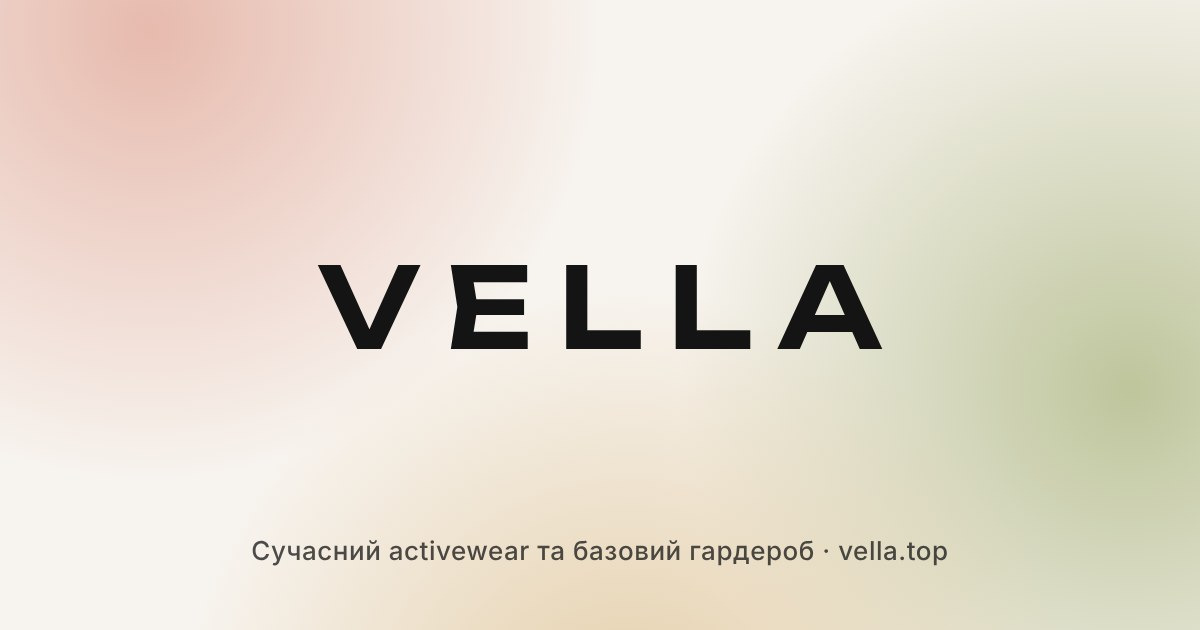
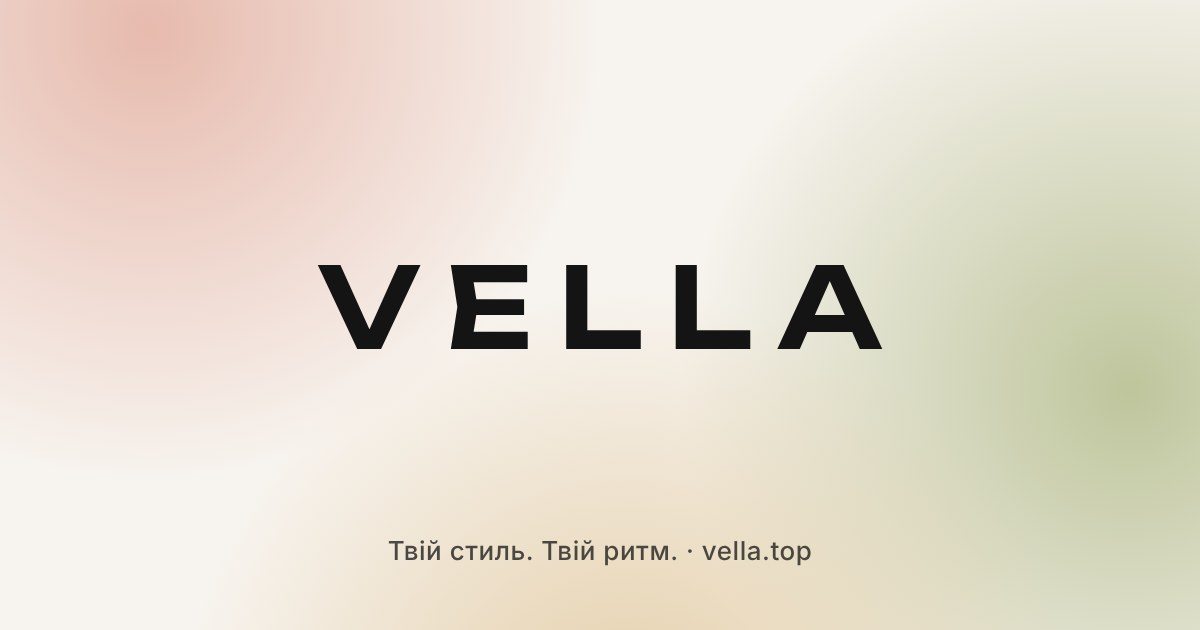
New slogans and search keywords
Approved texts:
- Slogan "Твій стиль. Твій ритм." (footer, link card image, share alt).
- Homepage for Google: "VELLA — жіночий одяг, взуття та сумки |
  Інтернет-магазин" with a matching description; the catalogue and
  site-wide fallback descriptions now name the real assortment instead
  of "activewear".
- Homepage headings: "Нове цього сезону" (with a new subtitle),
  "Обирай за настроєм", "Щойно в магазині".
- Announcement bar: "Доставка безкоштовно від 2000 ₴",
  "−10% на перше замовлення · код WELCOME10",
  "14 днів на обмін і повернення".
- Category SEO titles and descriptions with search phrases
  ("Жіночі пуховики", "Жіночі сумки" …) for 26 categories by slug.
- Product page title: "{name}, {category} — купити онлайн", leaving the
  category out when the name already contains it.

Database texts change through a migration that only replaces the old
wording, so anything already edited in the admin panel is kept. Seed
defaults match.

Claude-Session: https://claude.ai/code/session_012we2WV5isBuAY5kzzw5SJp

Changed region(s): [[0.2158, 0.8444, 0.6783, 0.9048], [0.7092, 0.8444, 0.8017, 0.9048]]

diff --git a/fashion-store/prisma/seed.ts b/fashion-store/prisma/seed.ts
@@ -52,15 +52,15 @@ async function ensureSettings() {
     create: {
       id: "default",
       storeName: "VELLA",
-      tagline: "Одяг для руху та щоденного життя",
+      tagline: "Твій стиль. Твій ритм.",
       accentColor: "#1f1f1f",
       currency: "UAH",
       freeShippingThreshold: 200000,
       shippingFlatRate: 9000,
       contactEmail: "vela.wearua@gmail.com",
       contactPhone: "+380 96 494 54 95",
-      seoTitle: "VELLA — сучасний activewear та базовий гардероб",
-      seoDescription: "Мінімалістичний одяг для тренувань і щоденного життя. Легінси, худі, світшоти, бра та аксесуари з доставкою по Україні.",
+      seoTitle: "VELLA — жіночий одяг, взуття та сумки | Інтернет-магазин",
+      seoDescription: "Сучасний жіночий одяг, взуття та аксесуари: пуховики, светри, джинси, шкіряні сумки. Доставка Новою Поштою по Україні, обмін 14 днів.",
       ogImage: "/og.jpg",
       sizeGuide:
         "XS — груди 78–82 см, талія 60–64 см, стегна 86–90 см\nS — груди 82–86 см, талія 64–68 см, стегна 90–94 см\nM — груди 86–90 см, талія 68–72 см, стегна 94–98 см\nL — груди 90–96 см, талія 72–78 см, стегна 98–104 см\nXL — груди 96–102 см, талія 78–84 см, стегна 104–110 см",

diff --git a/fashion-store/src/lib/seo.ts b/fashion-store/src/lib/seo.ts
@@ -59,7 +59,12 @@ type ProductSeoInput = {
 export function productSeoTitle(p: ProductSeoInput) {
   const custom = p.seoTitle?.trim();
   if (custom && !custom.includes("|") && !mentionsAny(custom, [p.brand, p.supplier])) return withoutStoreSuffix(custom);
-  return p.name;
+  // "Aurora — Noir, сумки — купити онлайн": the category and buying intent are what people search for.
+  // The category is skipped when the name already says it ("Худі на блискавці", category "Худі").
+  const category = (p.subcategory ?? p.category)?.name.toLowerCase();
+  const stem = category?.split(/\s+/)[0].slice(0, 4);
+  const showCategory = category && stem && !p.name.toLowerCase().includes(stem);
+  return `${p.name}${showCategory ? `, ${category}` : ""} — купити онлайн`;
 }
 
 /**

diff --git a/fashion-store/src/components/store/site-footer.tsx b/fashion-store/src/components/store/site-footer.tsx
@@ -9,7 +9,7 @@ export async function SiteFooter() {
       <div className="container-page grid gap-12 py-16 lg:grid-cols-12">
         <div className="lg:col-span-4">
           <p className="font-display text-xl font-semibold tracking-[0.28em]">{settings.storeName}</p>
-          <p className="mt-4 max-w-sm text-sm text-muted-foreground">{settings.tagline ?? "Преміальний activewear та базовий гардероб."}</p>
+          <p className="mt-4 max-w-sm text-sm text-muted-foreground">{settings.tagline ?? "Твій стиль. Твій ритм."}</p>
           <NewsletterForm />
         </div>
         <div className="grid grid-cols-2 gap-10 sm:grid-cols-3 lg:col-span-8">

diff --git a/fashion-store/src/app/(store)/shop/page.tsx b/fashion-store/src/app/(store)/shop/page.tsx
@@ -9,7 +9,7 @@ export async function generateMetadata(props: PageProps<"/shop">): Promise<Metad
   const flag = typeof sp.flag === "string" ? FLAG_TITLES[sp.flag] : undefined;
   return {
     title: flag ?? "Усі товари",
-    description: "Каталог VELLA: activewear, худі, світшоти, легінси та аксесуари.",
+    description: "Каталог жіночого одягу VELLA: пуховики, пальта, светри, худі, джинси, шкіряні сумки та взуття. Доставка по Україні.",
     alternates: { canonical: flag ? `/shop?flag=${sp.flag}${pageSuffix(sp, "&")}` : `/shop${pageSuffix(sp)}` },
   };
 }

diff --git a/fashion-store/src/app/layout.tsx b/fashion-store/src/app/layout.tsx
@@ -9,7 +9,7 @@ const display = Unbounded({ variable: "--font-display", subsets: ["latin", "cyri
 export const metadata: Metadata = {
   metadataBase: new URL(siteUrl()),
   title: { default: "VELLA", template: "%s — VELLA" },
-  description: "Преміальний activewear та базовий гардероб",
+  description: "Сучасний жіночий одяг, взуття та аксесуари з доставкою по Україні",
   // Google Search Console "HTML tag" verification: set GOOGLE_SITE_VERIFICATION to the content="…" value.
   ...(process.env.GOOGLE_SITE_VERIFICATION ? { verification: { google: process.env.GOOGLE_SITE_VERIFICATION } } : {}),
 };

diff --git a/fashion-store/src/app/(store)/layout.tsx b/fashion-store/src/app/(store)/layout.tsx
@@ -22,7 +22,7 @@ export const metadata: Metadata = {
     siteName: "VELLA",
     locale: "uk_UA",
     type: "website",
-    images: [{ url: DEFAULT_OG_IMAGE, width: 1200, height: 630, alt: "VELLA — сучасний activewear та базовий гардероб" }],
+    images: [{ url: DEFAULT_OG_IMAGE, width: 1200, height: 630, alt: "VELLA — Твій стиль. Твій ритм." }],
   },
   // Large preview cards (Telegram, X, Viber) instead of a small square thumbnail.
   twitter: { card: "summary_large_image" },
